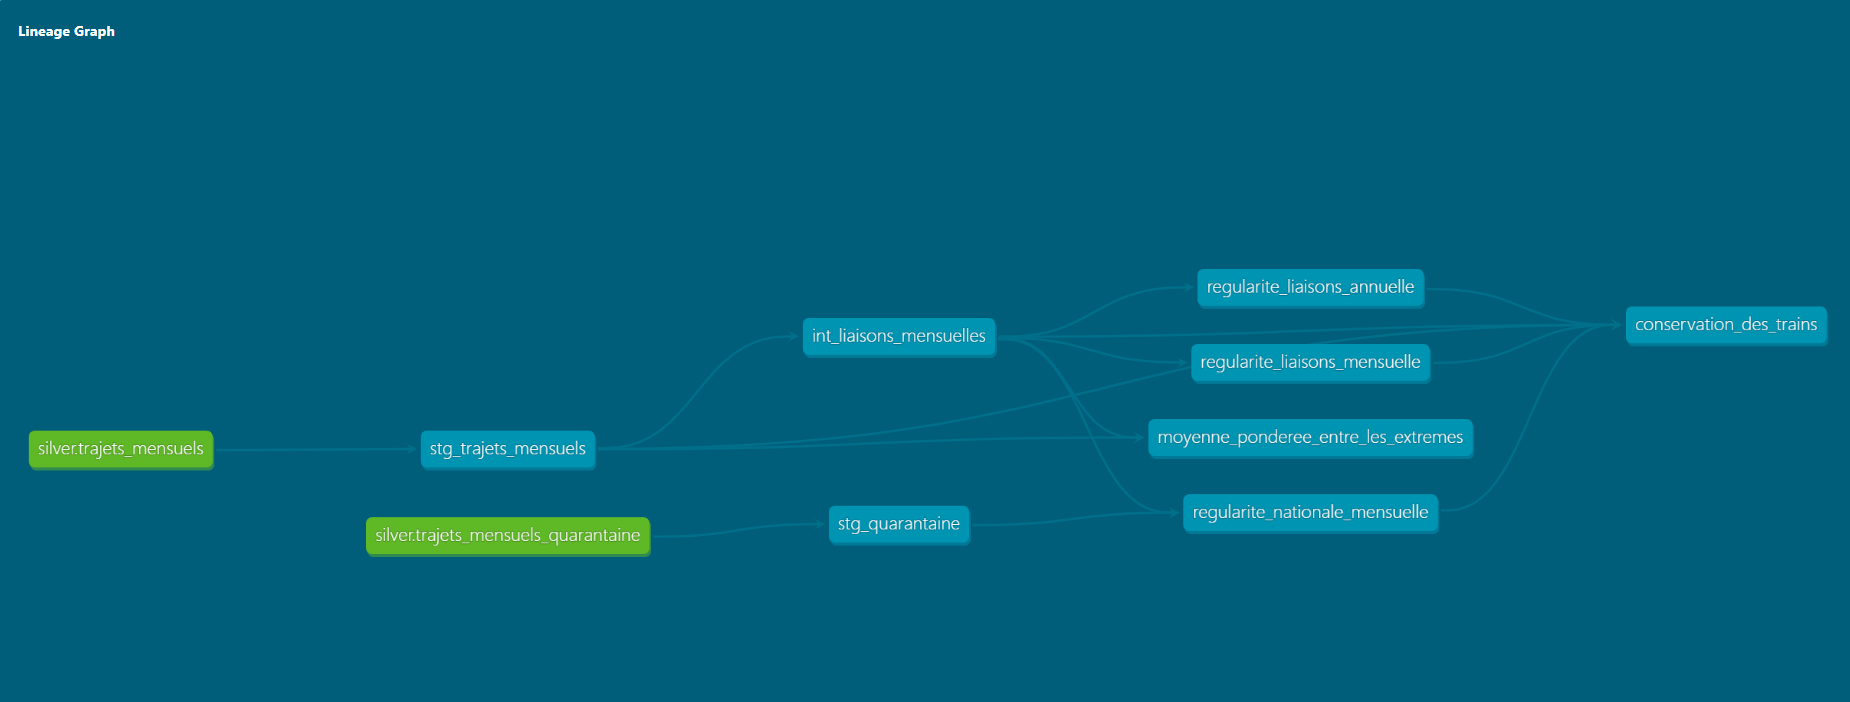
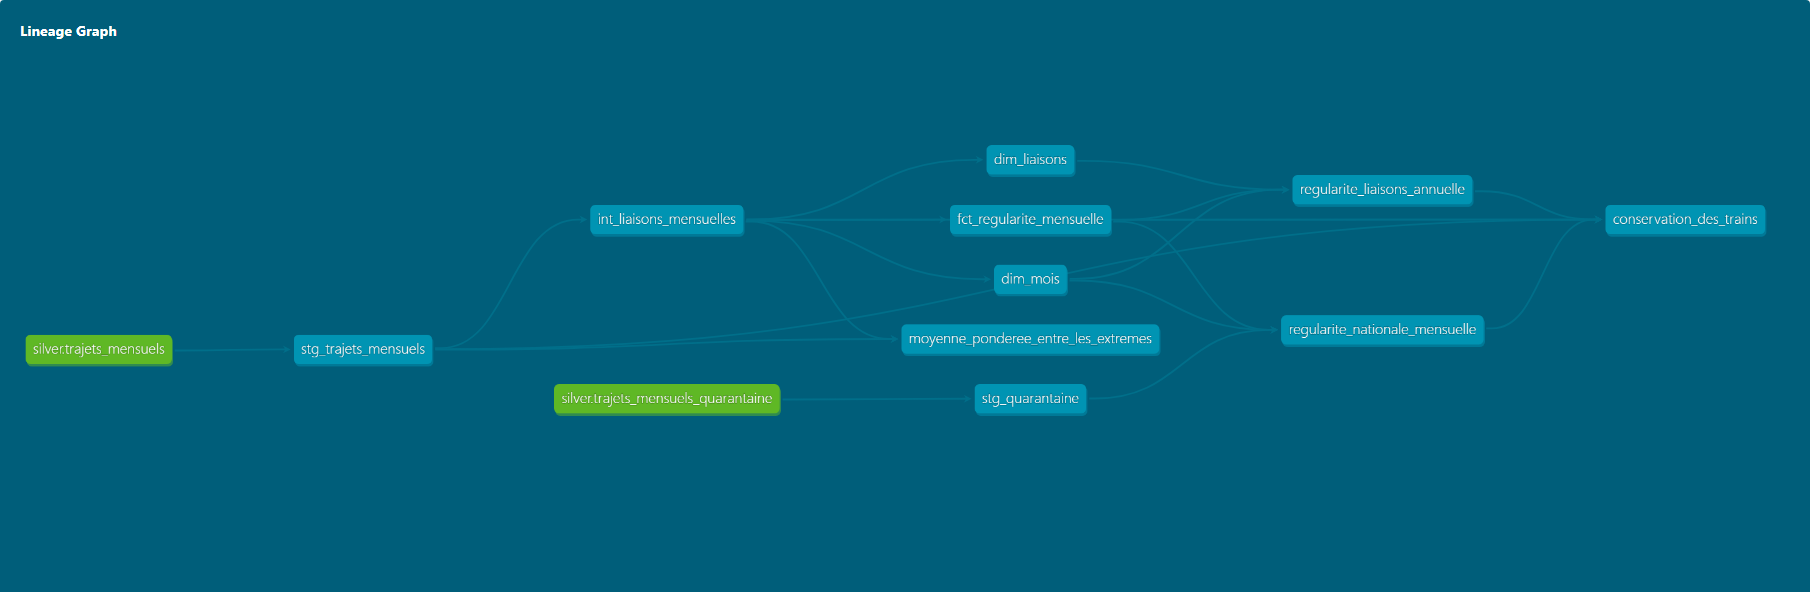
modelise la couche gold en etoile avec faits et dimensions

diff --git a/tests/test_orchestration.py b/tests/test_orchestration.py
@@ -22,8 +22,11 @@ def test_graphe_relie_bronze_silver_et_dbt():
     assert graphe.get(dg.AssetKey("stg_trajets_mensuels")).parent_keys == cles(
         "silver/trajets_mensuels"
     )
+    # Modele en etoile : faits, dimensions et agregats sont tous des assets du graphe.
     assert cles(
-        "regularite_liaisons_mensuelle",
+        "fct_regularite_mensuelle",
+        "dim_liaisons",
+        "dim_mois",
         "regularite_nationale_mensuelle",
         "regularite_liaisons_annuelle",
     ) <= graphe.get_all_asset_keys()

diff --git a/README.md b/README.md
@@ -16,8 +16,8 @@
 valide ligne par ligne, construit les tables d'analyse et publie un rapport en français en tête
 de l'exécution. Relancé sur une source inchangée, il ne réécrit rien. Sur le millésime du
 8 octobre 2026, **79 lignes sur 12 907 (0,61 %) sont écartées** avec leur motif, dont 43 nombres
-de trains négatifs publiés par la source entre janvier et mars 2025 ; 95 tests (68 en Python,
-27 dans dbt) vérifient la chaîne, dont la conservation exacte des 3 508 693 trains prévus d'un
+de trains négatifs publiés par la source entre janvier et mars 2025 ; 106 tests (68 en Python,
+38 dans dbt) vérifient la chaîne, dont la conservation exacte des 3 508 693 trains prévus d'un
 bout à l'autre.
 
 **Ce qu'il mesure.** De janvier à septembre 2026, **18,7 % des TGV sont arrivés en retard**,
@@ -62,8 +62,9 @@ Les données ne sont pas versionnées : le pipeline les télécharge (voir Exéc
    téléchargement ; une empreinte SHA-256 identique au dernier millésime n'écrit rien.
 2. **Silver** : lecture robuste (encodage, séparateur, colonnes par nom), validation pandera
    ligne par ligne avec quarantaine, puis Parquet partitionné par mois.
-3. **Gold** : modèles SQL dbt sur DuckDB, testés à chaque exécution ; les comptes sont
-   additionnés et les moyennes recalculées en pondérant par le nombre de trains.
+3. **Gold** : modèles SQL dbt sur DuckDB, testés à chaque exécution, organisés en **modèle en
+   étoile** (une table de faits, deux dimensions) avec deux tables d'agrégats par-dessus ; les
+   comptes sont additionnés et les moyennes recalculées en pondérant par le nombre de trains.
 4. **Orchestration** : Dagster enchaîne les trois couches, réessaie le téléchargement, s'arrête
    net sur une rupture de contrat ; GitHub Actions le lance chaque mois et garde la mémoire d'un
    mois sur l'autre par artefact.
@@ -74,6 +75,52 @@ Généré par dbt à partir des dépendances déclarées dans le SQL : en vert l
 en bleu les modèles, à droite les deux tests qui vérifient la cohérence des calculs.
 
 ![Graphe de lignage dbt](docs/lignage_dbt.png)
+
+### Modèle de données (gold)
+
+Un **modèle en étoile** : au centre, la table de faits (une ligne par liaison et par mois, avec
+les mesures), reliée par ses clés aux dimensions qui décrivent le « quoi » et le « quand ». Les
+deux tables d'agrégats lues par l'analyste sont construites en joignant les faits à leurs
+dimensions ; des tests dbt de relations garantissent que chaque clé des faits existe dans sa
+dimension.
+
+```mermaid
+erDiagram
+    dim_liaisons ||--o{ fct_regularite_mensuelle : "id_liaison"
+    dim_mois ||--o{ fct_regularite_mensuelle : "mois"
+    dim_liaisons {
+        string id_liaison PK
+        string gare_depart
+        string gare_arrivee
+        string premier_mois
+        string dernier_mois
+    }
+    dim_mois {
+        string mois PK
+        int annee
+        int numero_mois
+        int trimestre
+        string libelle
+    }
+    fct_regularite_mensuelle {
+        string id_liaison_mois PK
+        string id_liaison FK
+        string mois FK
+        int nb_trains_prevus
+        int nb_annulations
+        int nb_trains_retard_arrivee
+        float retard_moyen_tous_trains_min
+        float taux_retard_arrivee
+    }
+```
+
+| Table | Rôle | Lignes |
+|---|---|---:|
+| `fct_regularite_mensuelle` | faits : une ligne par liaison et par mois | 12 786 |
+| `dim_liaisons` | dimension : une ligne par liaison (gare de départ → gare d'arrivée) | 130 |
+| `dim_mois` | dimension calendrier : année, trimestre, libellé | 105 |
+| `regularite_nationale_mensuelle` | agrégat : tout le réseau, par mois | 105 |
+| `regularite_liaisons_annuelle` | agrégat : chaque liaison, par année, pour classer | 1 105 |
 
 ### Orchestration
 
@@ -120,9 +167,9 @@ faut faire. Une fois la cause corrigée, une reconstruction depuis bronze (*back
 | `tests/test_orchestration.py` | 6 | graphe relié de bronze à gold, réessais réservés au réseau, arrêt sur erreur de contrat |
 | `tests/test_rapport.py` | 8 | rapport de succès et d'échec, traduction des motifs, erreur remontée jusqu'au rapport |
 | `tests/test_config.py` | 3 | paramètres de lecture explicites |
-| dbt : `unique`, `not_null`, `accepted_values`, `relationships` | 17 | clés uniques à chaque niveau, services autorisés, cohérence entre tables gold |
-| dbt : `entre_bornes` (test maison) | 8 | taux entre 0 et 1, nombres de trains positifs, mois par an entre 1 et 12 |
-| dbt : `conservation_des_trains` | 1 | le total des trains prévus est identique du staging aux trois tables gold |
+| dbt : `unique`, `not_null`, `accepted_values`, `relationships` | 27 | clés uniques à chaque niveau, services autorisés, chaque clé des faits présente dans sa dimension |
+| dbt : `entre_bornes` (test maison) | 9 | taux entre 0 et 1, nombres de trains positifs, numéros de mois entre 1 et 12 |
+| dbt : `conservation_des_trains` | 1 | le total des trains prévus est identique du staging aux faits et aux deux agrégats |
 | dbt : `moyenne_ponderee_entre_les_extremes` | 1 | une moyenne pondérée reste entre les valeurs qu'elle combine |
 
 Aucun test n'utilise le réseau : le téléchargement est simulé.
@@ -202,7 +249,7 @@ dossier `transformations/`. Documentation dbt et graphe de lignage : `dbt docs g
 
 ```powershell
 pytest                                 # 68 tests Python
-cd transformations; dbt build          # 6 modèles et 27 tests de données
+cd transformations; dbt build          # 8 modèles et 38 tests de données
 ```
 
 ## Structure
@@ -218,7 +265,7 @@ src/
   orchestration.py   assets Dagster, job et planification
   rapport.py         rapport d'exécution lisible
   executer.py        point d'entrée : pipeline + journal + rapport
-transformations/     projet dbt : staging, intermediaire, gold, tests
+transformations/     projet dbt : staging, intermediaire, gold (étoile + agrégats), tests
 tests/               tests pytest sur données volontairement dégradées
 docs/                contrat de données et captures
 donnees/             bronze, silver, gold (non versionnés)
@@ -342,11 +389,11 @@ des sommes, jamais de moyenne de moyennes.** Quand la SNCF publie Dijon → Pari
 pondérée donne 5,4 min ; la moyenne simple donnerait 5,6 min, en accordant le même poids aux deux
 groupes.
 
-Pour prouver les chiffres, 27 tests dbt, dont deux qui vérifient des propriétés mathématiques
+Pour prouver les chiffres, 38 tests dbt, dont deux qui vérifient des propriétés mathématiques
 plutôt que des formats :
 
 - **conservation des trains** : le total des trains prévus (3 508 693 au millésime du
-  8 octobre 2026) est identique à chaque étage, du staging aux trois tables gold. Une jointure
+  8 octobre 2026) est identique à chaque étage, du staging à la table de faits et aux agrégats. Une jointure
   qui duplique des lignes ou un filtre oublié le fait échouer ;
 - **moyenne pondérée encadrée** : une moyenne pondérée tombe toujours entre la plus petite et la
   plus grande des valeurs qu'elle combine ; sinon, les poids sont faux.
@@ -354,6 +401,25 @@ plutôt que des formats :
 Ces tests ont trouvé un vrai défaut : en 2020, 63 liaisons comptaient des annulations pour zéro
 train prévu, ce qui donnait un nombre de trains ayant circulé négatif. Le calcul a été corrigé
 avant que gold ne soit construit.
+
+</details>
+
+<details>
+<summary><b>Pourquoi un modèle en étoile dans la couche gold ?</b></summary>
+
+Parce qu'il sépare ce qu'on mesure de ce qui le décrit. La **table de faits** contient une ligne
+par liaison et par mois (son *grain*) et uniquement des mesures : trains prévus, annulés, en
+retard, retards moyens, plus deux clés. Les **dimensions** portent les descriptions : la liaison
+(gares de départ et d'arrivée, premier et dernier mois publiés), le mois (année, trimestre,
+libellé). Une analyse part des faits et joint les dimensions dont elle a besoin : les deux tables
+d'agrégats du projet sont construites exactement ainsi.
+
+Ce que ça apporte : une description ne vit qu'à un endroit (renommer une gare, ajouter un
+attribut au calendrier ne touche qu'une dimension), et c'est le format qu'attendent les outils
+de restitution comme Power BI. Le risque classique est la jointure qui multiplie les lignes, si
+une dimension contient deux fois la même clé : les tests dbt vérifient que chaque clé de
+dimension est unique, que chaque clé des faits existe dans sa dimension, et que le total des
+trains reste identique avant et après les jointures.
 
 </details>
 
